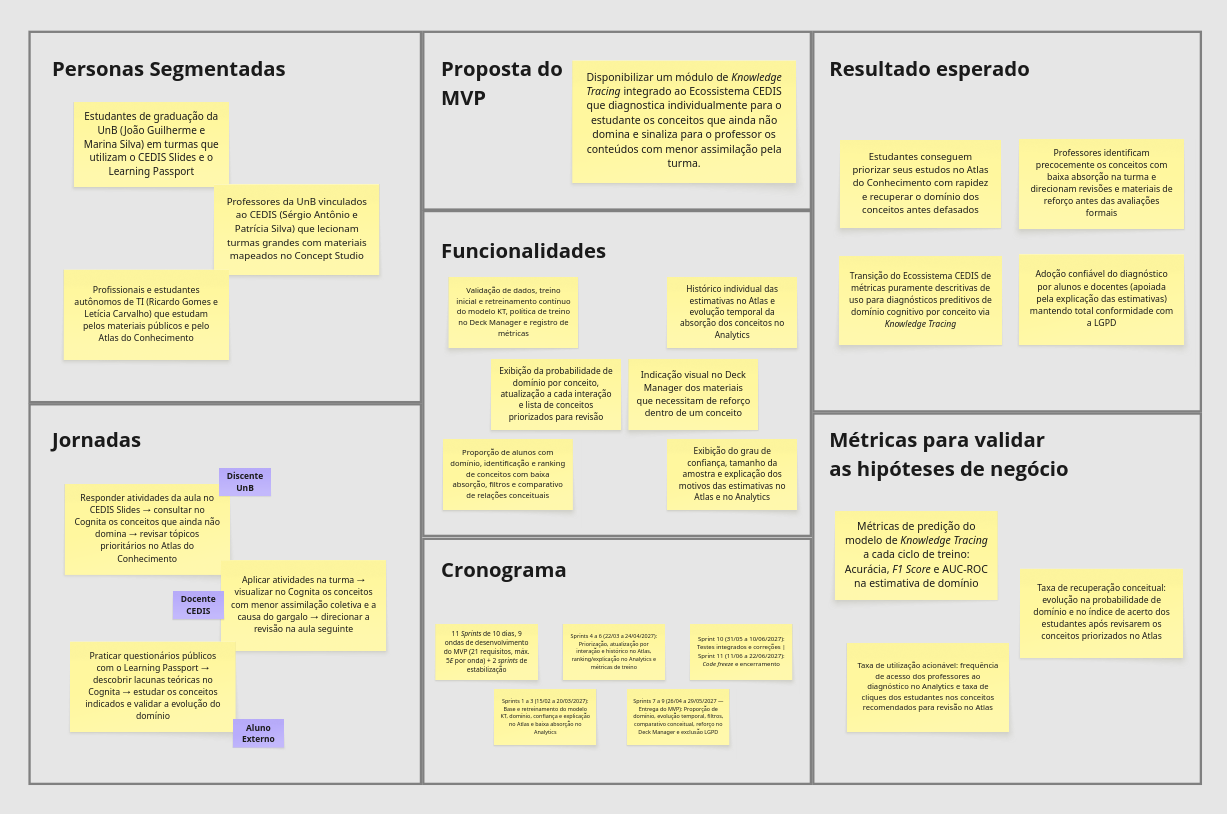
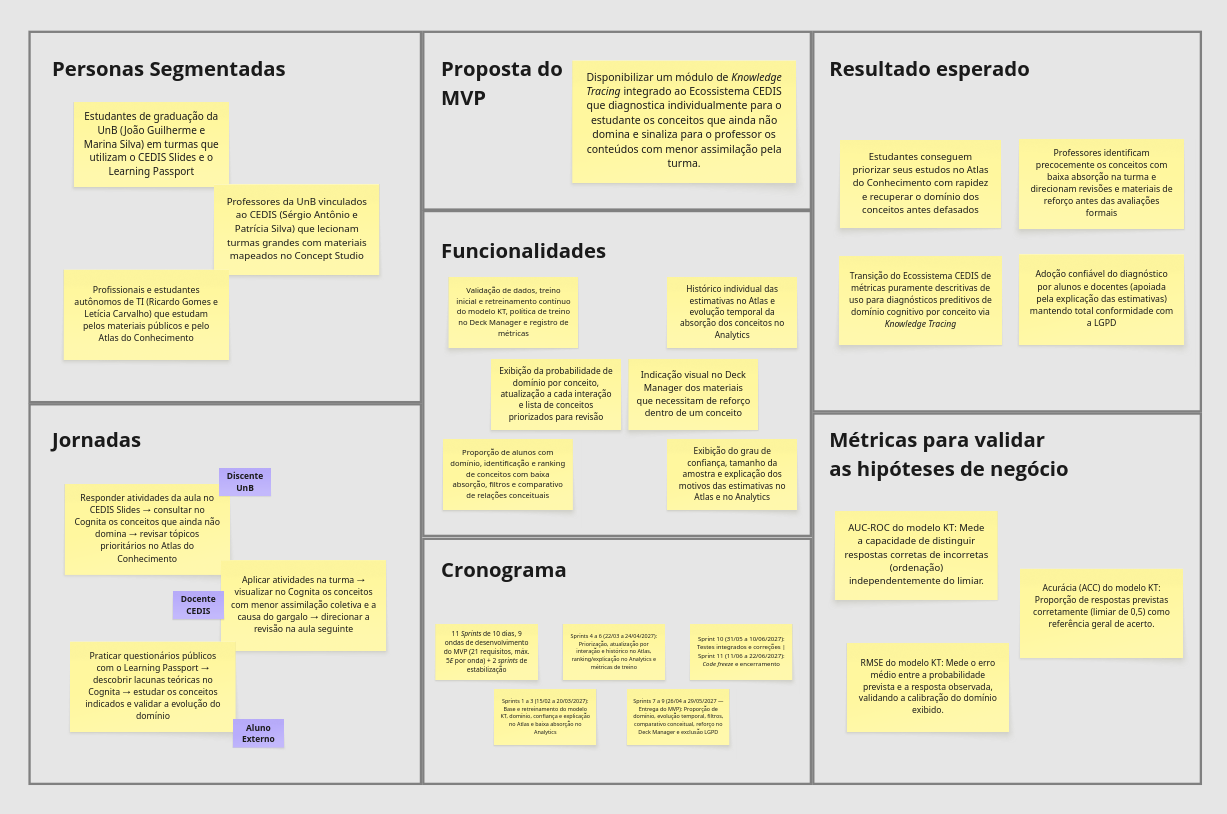
fix: ajustes com as métricas de validação do CanvasMVP

Changed region(s): [[0.8362, 0.7064, 0.9601, 0.7985], [0.6813, 0.645, 0.8052, 0.7371], [0.6813, 0.7985, 0.8052, 0.8907]]

diff --git a/editaveis/capitulos/4-planejamento.tex b/editaveis/capitulos/4-planejamento.tex
@@ -399,11 +399,11 @@ A estruturação dos sete quadrantes da Figura~\ref{fig:mvp-canvas} amarra de fo
 
     \item \textbf{Resultado Esperado (Hipóteses qualitativas de valor):} Explicita as quatro transformações esperadas no ecossistema: (i) estudantes capazes de priorizar seus estudos no Atlas do Conhecimento com rapidez e recuperar o domínio de conceitos defasados; (ii) professores identificando precocemente conceitos com baixa absorção na turma para direcionar revisões e materiais antes das avaliações formais; (iii) transição efetiva do Ecossistema CEDIS de métricas puramente descritivas de uso para diagnósticos preditivos de domínio cognitivo via \textit{Knowledge Tracing}; e (iv) adoção confiável do diagnóstico por discentes e docentes — amparada pela explicabilidade das estimativas — mantendo estrita conformidade com a LGPD.
 
-    \item \textbf{Métricas para Validar as Hipóteses de Negócio (Indicadores quantitativos):} Define três eixos objetivos de aferição para comprovar o sucesso do MVP:
+    \item \textbf{Métricas para Validar as Hipóteses de Negócio (Indicadores quantitativos):} Define três métricas objetivas de avaliação do modelo de \textit{Knowledge Tracing} para comprovar a qualidade preditiva e a confiabilidade do MVP:
     \begin{itemize}
-        \item \textit{Métricas de predição do modelo de Knowledge Tracing:} Monitoramento da AUC, da acurácia (ACC) e da RMSE na estimativa de domínio a cada ciclo de treinamento;
-        \item \textit{Taxa de recuperação conceitual:} Evolução observada na probabilidade estimada de domínio e no índice de acerto dos estudantes após revisarem os conceitos priorizados no Atlas;
-        \item \textit{Taxa de utilização acionável:} Frequência de acesso dos professores ao painel diagnóstico no Analytics e taxa de cliques dos estudantes nos conceitos recomendados para revisão no Atlas.
+        \item \textit{AUC-ROC do modelo KT:} Mede a capacidade do modelo de distinguir respostas corretas de incorretas (ordenação), independentemente de um limiar de decisão;
+        \item \textit{Acurácia (ACC) do modelo KT:} Avalia a proporção de respostas previstas corretamente (considerando o limiar padrão de 0,5) como referência geral de acerto;
+        \item \textit{RMSE do modelo KT:} Mede o erro quadrático médio entre a probabilidade prevista e a resposta observada, validando a calibração das estimativas de domínio exibidas aos usuários.
     \end{itemize}
 \end{enumerate}
 

diff --git a/fixos/pacotes.tex b/fixos/pacotes.tex
@@ -1,5 +1,5 @@
 %!TEX root = ../tcc.tex
-\documentclass[12pt,openright,twoside,a4paper,english,french,spanish,brazil]{abntex2}
+\documentclass[12pt,openany,oneside,a4paper,english,french,spanish,brazil]{abntex2}
 
 \usepackage{cmap}	
 \usepackage{lmodern}	
